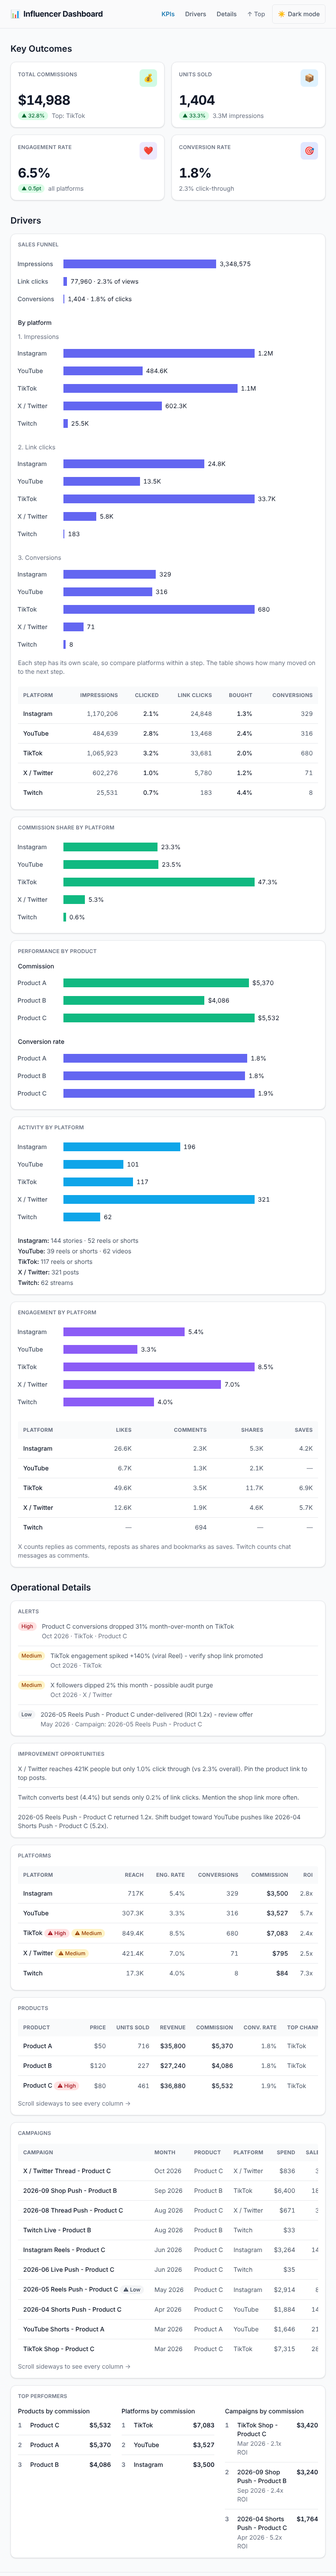
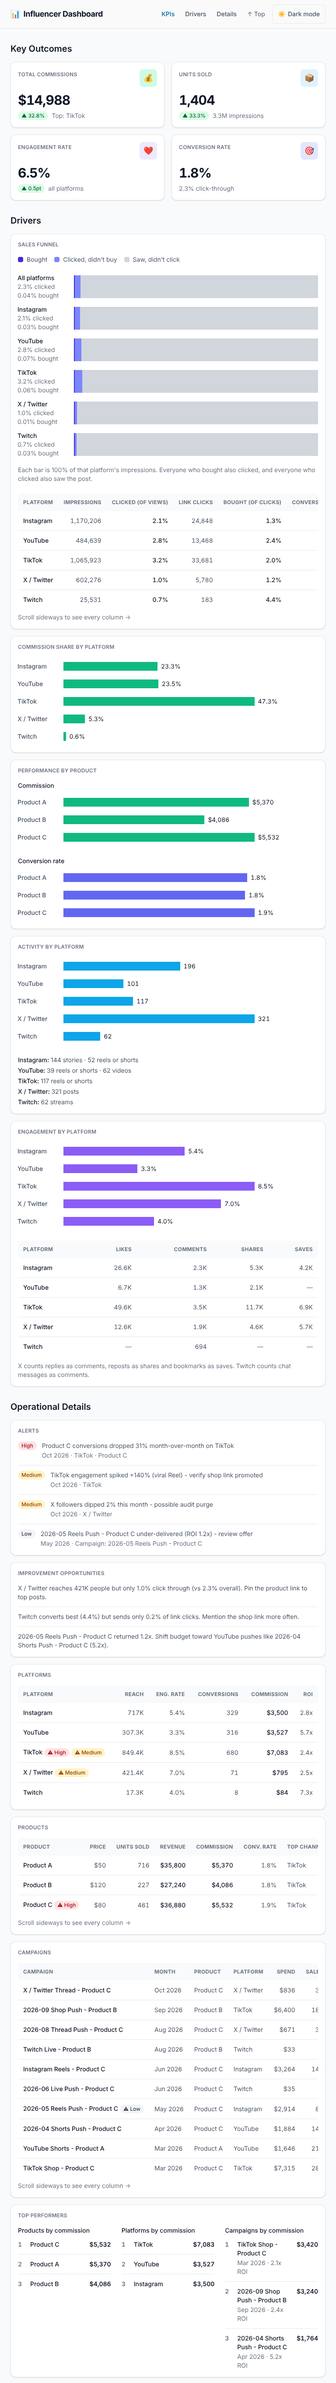
Show the sales funnel as 100% stacked bars
Each platform (and all platforms together) gets one horizontal bar that
is 100% of its impressions, split into bought, clicked but didn't buy,
and saw but didn't click. Row labels give the clicked and bought shares;
the step-rate table stays, with its denominators named. The generator
precomputes derived.funnelMix and checks each mix sums to 100.

Claude-Session: https://claude.ai/code/session_018vAGCnrhPDK2QZmrSrs5ox

diff --git a/app.js b/app.js
@@ -33,6 +33,12 @@
     up: "bg-green-100 text-green-800 dark:bg-green-500/15 dark:text-green-300",
     down: "bg-red-100 text-red-800 dark:bg-red-500/15 dark:text-red-300",
     activeNav: ["text-sky-700", "dark:text-sky-400"],
+    // Funnel segments: one hue, darkest = furthest step; "didn't click" stays neutral.
+    funnel: {
+      bought: { bar: "[--color:var(--color-indigo-700)] dark:[--color:var(--color-indigo-300)]", swatch: "bg-indigo-700 dark:bg-indigo-300" },
+      clicked: { bar: "[--color:var(--color-indigo-400)] dark:[--color:var(--color-indigo-500)]", swatch: "bg-indigo-400 dark:bg-indigo-500" },
+      viewed: { bar: "[--color:var(--color-gray-300)] dark:[--color:var(--color-slate-600)]", swatch: "bg-gray-300 dark:bg-slate-600" }
+    },
     severity: {
       high: "bg-red-100 text-red-800 dark:bg-red-500/15 dark:text-red-300",
       medium: "bg-amber-100 text-amber-800 dark:bg-amber-500/15 dark:text-amber-300",
@@ -72,6 +78,12 @@
 
   function compact(value) {
     return Number(value).toLocaleString("en-US", { notation: "compact", maximumFractionDigits: 1 });
+  }
+
+  // Shares of impressions can be tiny; keep two decimals below 0.1% so they don't read as 0.0%.
+  function share(value) {
+    var n = Number(value);
+    return (n > 0 && n < 0.1 ? n.toFixed(2) : n.toFixed(1)) + "%";
   }
 
   function ratio(value) {
@@ -272,30 +284,60 @@
     return node;
   }
 
-  // Overall funnel as linear bars with raw values and step rates, then the same
-  // stages per platform (each chart scaled to its own stage) and a step-rate table.
-  // stages: [{ label, value, display }]; byPlatform: [{ subtitle, caption, rows }].
+  // 100% stacked bars: every impression ends in exactly one segment (bought,
+  // clicked but didn't buy, saw but didn't click). Rows: [{ label, sub, mix }],
+  // where mix is a derived.funnelMix entry and sub is the muted lines under the label. Then a legend and a step-rate table.
   function funnel(opts) {
     var node = card(opts.title);
-    var overall = el("div");
-    overall.appendChild(chartTable({
-      caption: opts.caption,
-      color: ACCENT.performance.color,
-      scale: 0.6,
-      rows: opts.stages
-    }));
-    node.appendChild(overall);
+    var segments = [
+      { key: "bought", pct: "boughtPct", label: "Bought", count: "conversions" },
+      { key: "clicked", pct: "clickedOnlyPct", label: "Clicked, didn't buy" },
+      { key: "viewed", pct: "viewedOnlyPct", label: "Saw, didn't click" }
+    ];
 
-    node.appendChild(el("p", "text-sm font-medium mt-6 mb-3 " + T.heading, "By platform"));
-    var grid = el("div", "grid gap-6 lg:grid-cols-3");
-    opts.byPlatform.forEach(function (stage) {
-      var col = el("div", "min-w-0");
-      col.appendChild(el("p", "text-sm mb-2 " + T.muted, stage.subtitle));
-      col.appendChild(chartTable({ caption: stage.caption, color: ACCENT.performance.color, rows: stage.rows }));
-      grid.appendChild(col);
+    var legend = el("ul", "flex flex-wrap gap-x-4 gap-y-1 mb-4 text-sm " + T.body);
+    segments.forEach(function (seg) {
+      var li = el("li", "flex items-center gap-2");
+      var swatch = el("span", "inline-block w-3 h-3 rounded-sm " + T.funnel[seg.key].swatch);
+      swatch.setAttribute("aria-hidden", "true");
+      li.appendChild(swatch);
+      li.appendChild(el("span", null, seg.label));
+      legend.appendChild(li);
     });
-    node.appendChild(grid);
-    node.appendChild(el("p", "mt-3 text-sm " + T.muted, "Each step has its own scale, so compare platforms within a step. The table shows how many moved on to the next step."));
+    node.appendChild(legend);
+
+    var tableNode = el("table", "charts-css bar multiple stacked show-labels hide-data data-spacing-10");
+    tableNode.style.setProperty("--labels-size", "8rem");
+    tableNode.appendChild(el("caption", "sr-only", opts.caption));
+    var tbody = el("tbody");
+    opts.rows.forEach(function (r) {
+      // Two-line labels need taller rows than Charts.css gives a bar by default.
+      var row = el("tr", "min-h-18");
+      var th = el("th", "text-sm text-left pe-3");
+      th.setAttribute("scope", "row");
+      // One block inside the th: Charts.css lays th out as a flex row.
+      var label = el("div", "min-w-0");
+      label.appendChild(el("p", "font-medium " + T.heading, r.label));
+      r.sub.forEach(function (line) { label.appendChild(el("p", "font-normal " + T.muted, line)); });
+      th.appendChild(label);
+      row.appendChild(th);
+      segments.forEach(function (seg) {
+        var value = r.mix[seg.pct];
+        var td = el("td", (value > 0 ? "min-w-0.5 " : "") + T.funnel[seg.key].bar);
+        td.style.setProperty("--size", String(value / 100));
+        var text = seg.label + ": " + share(value) + " of impressions";
+        td.title = r.label + " · " + text;
+        td.appendChild(el("span", "data sr-only", text));
+        row.appendChild(td);
+      });
+      tbody.appendChild(row);
+    });
+    tableNode.appendChild(tbody);
+    var wrap = el("div");
+    wrap.appendChild(tableNode);
+    node.appendChild(wrap);
+
+    node.appendChild(el("p", "mt-3 text-sm " + T.muted, "Each bar is 100% of that platform's impressions. Everyone who bought also clicked, and everyone who clicked also saw the post."));
 
     var rates = table(opts.rates);
     rates.className += " mt-6";
@@ -389,23 +431,13 @@
   if (driverLead) {
     driverLead.appendChild(funnel({
       title: "Sales Funnel",
-      caption: "Impressions, link clicks and conversions across all platforms, with the share that reached each step",
-      stages: [
-        { label: "Impressions", value: derived.totalImpressions, display: count(derived.totalImpressions) },
-        { label: "Link clicks", value: derived.totalLinkClicks, display: count(derived.totalLinkClicks) + " · " + pct(derived.overallCtr) + " of views" },
-        { label: "Conversions", value: derived.totalConversions, display: count(derived.totalConversions) + " · " + pct(derived.overallConversionRate) + " of clicks" }
-      ],
-      byPlatform: [
-        { key: "impressions", subtitle: "1. Impressions", caption: "Impressions per platform" },
-        { key: "linkClicks", subtitle: "2. Link clicks", caption: "Link clicks per platform" },
-        { key: "conversions", subtitle: "3. Conversions", caption: "Conversions per platform" }
-      ].map(function (stage) {
+      caption: "Share of impressions that bought, clicked without buying, or saw without clicking, for all platforms and for each platform",
+      rows: [{ id: "all", name: "All platforms" }].concat(DATA.platforms).map(function (p) {
+        var mix = derived.funnelMix[p.id];
         return {
-          subtitle: stage.subtitle,
-          caption: stage.caption,
-          rows: DATA.platforms.map(function (p) {
-            return { label: p.name, value: p[stage.key], display: stage.key === "conversions" ? count(p[stage.key]) : compact(p[stage.key]) };
-          })
+          label: p.name,
+          mix: mix,
+          sub: [share(mix.clickedPct) + " clicked", share(mix.boughtPct) + " bought"]
         };
       }),
       rates: {
@@ -413,9 +445,9 @@
         columns: [
           { title: "Platform" },
           { title: "Impressions", numeric: true },
-          { title: "Clicked", numeric: true },
+          { title: "Clicked (of views)", numeric: true },
           { title: "Link clicks", numeric: true },
-          { title: "Bought", numeric: true },
+          { title: "Bought (of clicks)", numeric: true },
           { title: "Conversions", numeric: true }
         ],
         rows: DATA.platforms.map(function (p) {

diff --git a/data.js b/data.js
@@ -766,6 +766,62 @@ window.DATA = {
         "saves": null,
       },
     },
+    "funnelMix": {
+      "all": {
+        "impressions": 3348575,
+        "linkClicks": 77960,
+        "conversions": 1404,
+        "clickedPct": 2.3282,
+        "boughtPct": 0.0419,
+        "clickedOnlyPct": 2.2862,
+        "viewedOnlyPct": 97.6718,
+      },
+      "instagram": {
+        "impressions": 1170206,
+        "linkClicks": 24848,
+        "conversions": 329,
+        "clickedPct": 2.1234,
+        "boughtPct": 0.0281,
+        "clickedOnlyPct": 2.0953,
+        "viewedOnlyPct": 97.8766,
+      },
+      "youtube": {
+        "impressions": 484639,
+        "linkClicks": 13468,
+        "conversions": 316,
+        "clickedPct": 2.779,
+        "boughtPct": 0.0652,
+        "clickedOnlyPct": 2.7138,
+        "viewedOnlyPct": 97.221,
+      },
+      "tiktok": {
+        "impressions": 1065923,
+        "linkClicks": 33681,
+        "conversions": 680,
+        "clickedPct": 3.1598,
+        "boughtPct": 0.0638,
+        "clickedOnlyPct": 3.096,
+        "viewedOnlyPct": 96.8402,
+      },
+      "x": {
+        "impressions": 602276,
+        "linkClicks": 5780,
+        "conversions": 71,
+        "clickedPct": 0.9597,
+        "boughtPct": 0.0118,
+        "clickedOnlyPct": 0.9479,
+        "viewedOnlyPct": 99.0403,
+      },
+      "twitch": {
+        "impressions": 25531,
+        "linkClicks": 183,
+        "conversions": 8,
+        "clickedPct": 0.7168,
+        "boughtPct": 0.0313,
+        "clickedOnlyPct": 0.6854,
+        "viewedOnlyPct": 99.2832,
+      },
+    },
     "rankings": {
       "products": ["prod-c", "prod-a", "prod-b"],
       "platforms": ["tiktok", "youtube", "instagram", "x", "twitch"],

diff --git a/scripts/generate-data.py b/scripts/generate-data.py
@@ -553,6 +553,22 @@ def _driver_rollups(data: dict) -> None:
             row[col] = pl[pl_id]["engagement"].get(src, 0)
         d["interactionsByPlatform"][pl_id] = row
 
+    # Funnel mix: every impression ends in exactly one bucket, so the three
+    # shares sum to 100 (conversions are a subset of clicks, clicks of impressions).
+    def mix(impressions, clicks, conversions):
+        return {
+            "impressions": impressions,
+            "linkClicks": clicks,
+            "conversions": conversions,
+            "clickedPct": round(clicks / impressions * 100, 4),
+            "boughtPct": round(conversions / impressions * 100, 4),
+            "clickedOnlyPct": round((clicks - conversions) / impressions * 100, 4),
+            "viewedOnlyPct": round((impressions - clicks) / impressions * 100, 4),
+        }
+    d["funnelMix"] = {"all": mix(d["totalImpressions"], d["totalLinkClicks"], d["totalConversions"])}
+    for p in data["platforms"]:
+        d["funnelMix"][p["id"]] = mix(p["impressions"], p["linkClicks"], p["conversions"])
+
     # Top lists: ids ranked best first.
     d["rankings"] = {
         "products": [p["id"] for p in sorted(data["products"], key=lambda x: -x["commission"])],
@@ -736,6 +752,10 @@ def run_invariants(data: dict) -> bool:
     check(len(d["rankings"]["campaigns"]) == len(data["campaigns"]), "rankings.campaigns lists every campaign")
     check(d["rankings"]["platforms"][0] == d["topPlatform"], "rankings.platforms starts with topPlatform")
     check(len(d["opportunities"]) >= 1, "at least one opportunity present")
+    for key, m in d["funnelMix"].items():
+        check(m["conversions"] <= m["linkClicks"] <= m["impressions"], f"funnelMix {key} steps only shrink")
+        check(abs(m["boughtPct"] + m["clickedOnlyPct"] + m["viewedOnlyPct"] - 100) < 0.01,
+              f"funnelMix {key} shares sum to 100")
     # 6. finite numbers throughout
     for p in data["platforms"]:
         check(all(isinstance(x, (int, float)) for x in (p["followers"], p["reach"], p["impressions"],

diff --git a/resources/design-spec.md b/resources/design-spec.md
@@ -63,6 +63,7 @@ Write every class light-first with its `dark:` pair. Use these pairs and nothing
 | Hover row | `hover:bg-gray-50 dark:hover:bg-slate-700/40` |
 | Focus ring | `focus-visible:outline-2 focus-visible:outline-offset-2 focus-visible:outline-sky-500` |
 | Active nav link | `text-sky-700 dark:text-sky-400` |
+| Funnel segments (one hue, darkest = furthest step) | bought `indigo-700` / dark `indigo-300`; clicked, didn't buy `indigo-400` / dark `indigo-500`; saw, didn't click `gray-300` / dark `slate-600`. Bars set them as `[--color:var(--color-indigo-700)] dark:[--color:var(--color-indigo-300)]` (the only arbitrary-property classes, because inline `--color` can't follow the theme); legend swatches use the matching `bg-` classes |
 | Alert severity pill | high `bg-red-100 text-red-800 dark:bg-red-500/15 dark:text-red-300`; medium `bg-amber-100 text-amber-800 dark:bg-amber-500/15 dark:text-amber-300`; low `bg-gray-100 text-gray-700 dark:bg-slate-700 dark:text-slate-300` |
 
 ### KPI accents (one per KPI category, nothing else)
@@ -138,7 +139,7 @@ Each component is **one render function in `app.js`**. Never hand-copy a compone
 | `barChart({title, ...})` options | `charts: [...]` stacks several charts under their own subtitles (used for product commission + conversion rate); `table` adds a breakdown table under the chart; `breakdown` adds a "Label: detail" list; `note` adds a muted footnote |
 | `table({columns, rows})` | Table inside a focusable `overflow-x-auto` region: `w-full text-sm`; header row as tokens; `th`/`td` `px-3 py-3 whitespace-nowrap`; numeric columns `text-right tabular-nums`. A cell `{text, className, alerts}` shows `alertMarker()`s after its text. When columns overflow, a muted "Scroll sideways" hint appears under it |
 | `dataTable({title, columns, rows})` | `table()` inside a full-width `card()` (`lg:col-span-2`) |
-| `funnel({title, caption, stages, byPlatform, rates})` | Overall funnel as a Charts.css bar chart (indigo, scale 0.6 so "77,960 · 2.3% of views" fits), then "By platform": one chart per step (`lg:grid-cols-3`), each scaled to its own step, with a muted note saying so; then a `table()` of each platform's step rates and raw counts |
+| `funnel({title, caption, rows, rates})` | Legend, then a Charts.css `bar multiple stacked` chart: one 100% bar for all platforms and one per platform, split into bought / clicked, didn't buy / saw, didn't click (shares of impressions from `derived.funnelMix`). Each row label shows the name plus "2.3% clicked" and "0.04% bought" lines (`--labels-size: 8rem`, rows `min-h-18`). Segments carry a `title` and screen-reader text. Then a muted note that each bar is 100% of impressions, and a `table()` of step rates and raw counts |
 | `severityBadge(severity)` / `alertMarker(alert)` | Alert severity pill (§3). The marker adds ⚠, `role="img"` and an `aria-label` with the alert message, and sits next to the related table row |
 | `listCard({title, items, ordered})` / `list(...)` | Divided list; each item has an optional badge, text, muted meta line and right-aligned value. `ordered` numbers the items |
 
@@ -160,7 +161,8 @@ Each component is **one render function in `app.js`**. Never hand-copy a compone
 - `--size` is the value divided by the largest value, times 0.75, so the outside label of the biggest bar still fits at 375px.
 - Value labels get `whitespace-nowrap` so short bars don't wrap them.
 - Bars are linear, never log-scaled. A non-zero bar is at least 2px wide (`min-w-0.5`) so tiny values still show as a sliver; the value label carries the exact number.
-- A chart with long value labels may lower the 0.75 factor (`scale` option); the funnel uses 0.6.
+- A chart with long value labels may lower the 0.75 factor (`scale` option).
+- Percentages of impressions below 0.1% keep two decimals (`0.04%`) so they don't read as `0.0%`.
 - Let the rows set the chart's height; don't wrap it in a fixed-height box. Charts.css sets `height: 100%`, so each chart sits in a plain `<div>`: otherwise it takes the height of the stretched grid card and pushes the content below it out of the card.
 - One series colour per chart: the accent of the metric shown.
 
@@ -176,7 +178,7 @@ Built from `resources/brief.md`. Items marked "No" are deliberately left out; do
 | KPIs | Performance | Yes | Card 4: conversion rate (conversions ÷ link clicks); sub-line: CTR |
 | KPIs | Efficiency | Partly | No card. ROI and cost per conversion appear in the tables. |
 | KPIs | Retention, Satisfaction | No | No data source for an affiliate influencer |
-| Drivers | Conversion by stage | Yes | Funnel: impressions → link clicks → conversions as linear bars labelled with raw values and step rates, the same three steps per platform, and a step-rate table. Conversions are a sliver next to impressions; that is the point, and the labels give the numbers |
+| Drivers | Conversion by stage | Yes | Funnel: 100% stacked horizontal bars (all platforms, then each platform) split into bought / clicked but didn't buy / saw but didn't click, labelled with the clicked and bought shares, plus a step-rate table. Everyone who bought also clicked and saw, so each bar sums to 100% of impressions. The buying sliver is tiny; the labels give the numbers |
 | Drivers | Performance by platform | Yes | Bar chart: commission share per platform |
 | Drivers | Performance by product | Yes | Two bar charts in one card: commission (emerald) and conversion rate (indigo) per product |
 | Drivers | Activity | Yes | Bar chart of content pieces per platform (sky), with a "Platform: 144 stories · 52 reels or shorts" breakdown list |

diff --git a/resources/decisions.md b/resources/decisions.md
@@ -105,4 +105,12 @@
 - **Decision**: The funnel is a full-width card above the Drivers grid. It shows overall impressions → link clicks → conversions as linear Charts.css bars labelled with raw values and step rates, then one chart per step across platforms, then a table of each platform's step rates. Non-zero bars are at least 2px wide.
 - **Rationale**: mae wants the size of each drop visible as a picture, even when the smallest step is a sliver, as long as the labels give the exact numbers. Per-step charts with their own scale keep every platform's bar readable, and the table gives the per-platform drop-off.
 - **Alternatives considered**: a stage list with numbers only (first version; rejected by mae as too little visual information); a log scale (rejected: understates the drop); one mini funnel per platform on a shared scale (rejected: clicks and conversions would be slivers on every platform, so platforms couldn't be compared).
+- **Status**: Superseded by [Sales funnel as 100% stacked bars].
+
+---
+
+### [2026-10-20] Sales funnel as 100% stacked bars
+- **Decision**: Each platform (and "All platforms") gets one horizontal bar that is 100% of its impressions. The bar is split into bought, clicked but didn't buy, and saw but didn't click, using one indigo hue (darkest = furthest step) and neutral gray for "didn't click". `derived.funnelMix` holds the shares, which an invariant checks sum to 100. The step-rate table stays.
+- **Rationale**: mae's reference was a 100% stacked bar chart. The funnel steps are nested (a buyer also clicked and saw), so the three buckets partition impressions and a part-to-whole bar is truthful. One hue keeps the steps reading as an order, not as unrelated categories.
+- **Alternatives considered**: linear bars per step (the previous version; replaced at mae's request); a zoomed bar of clicks only (not built yet: it would make the bought/clicked split easier to see, but the whole-funnel framing is what mae asked for).
 - **Status**: Accepted (2026-10-20).

diff --git a/memory-bank/current-status.md b/memory-bank/current-status.md
@@ -6,7 +6,7 @@
 
 - `index.html` + `app.js`: sticky nav with a dark/light toggle; 4 KPI cards (Commissions, Units sold, Engagement rate, Conversion rate); a Charts.css "commission share by platform" chart; the products table. All numbers come from `window.DATA`.
 - `data.js` generated by `scripts/generate-data.py` (seed 20261020, schema v1.0; invariant checks pass). It contains 3 products, 5 platforms, 10 campaigns, 10 monthly rows, 4 alerts, and derived rollups.
-- Drivers block (2026-10-20): sales funnel (full width: overall bars, per-platform bars per step, step-rate table), commission share by platform, performance by product (commission + conversion rate), activity by platform (with content-type breakdown), engagement by platform (with interactions table).
+- Drivers block (2026-10-20): sales funnel (full width: 100% stacked bars for all platforms and each platform, step-rate table), commission share by platform, performance by product (commission + conversion rate), activity by platform (with content-type breakdown), engagement by platform (with interactions table).
 - Details block (2026-10-20): alerts list, improvement opportunities, platforms / products / campaigns tables with alert markers on the related rows, top performers. Checked at 375, 768, 1024 and 1440px in both themes: no console errors, no horizontal page scroll.
 - `derived` gained `activityByPlatform`, `interactionsByPlatform`, `rankings` and `opportunities`; X gained `postsCount`. Invariant checks cover them.
 - Docs consolidated (2026-10-20): `resources/design-spec.md` is the single spec. Superseded docs are in `archive/`.

diff --git a/resources/mock-data-plan.md b/resources/mock-data-plan.md
@@ -236,6 +236,8 @@ derived: {
   interactionsByPlatform: { x: { likes: 12554, comments: 1941 /* replies */, shares: 4623 /* reposts */, saves: 5673 /* bookmarks */ }, ... },
   rankings: { products: [...], platforms: [...], campaigns: [...] }, // ids, best first, by commission
   opportunities: [{ platformId: "x", message: "..." }, ...]          // short, data-backed suggestions
+  funnelMix: { all: { impressions, linkClicks, conversions, clickedPct, boughtPct, clickedOnlyPct, viewedOnlyPct }, instagram: {...}, ... }
+  // boughtPct + clickedOnlyPct + viewedOnlyPct = 100 (shares of impressions)
 }
 ```
 
